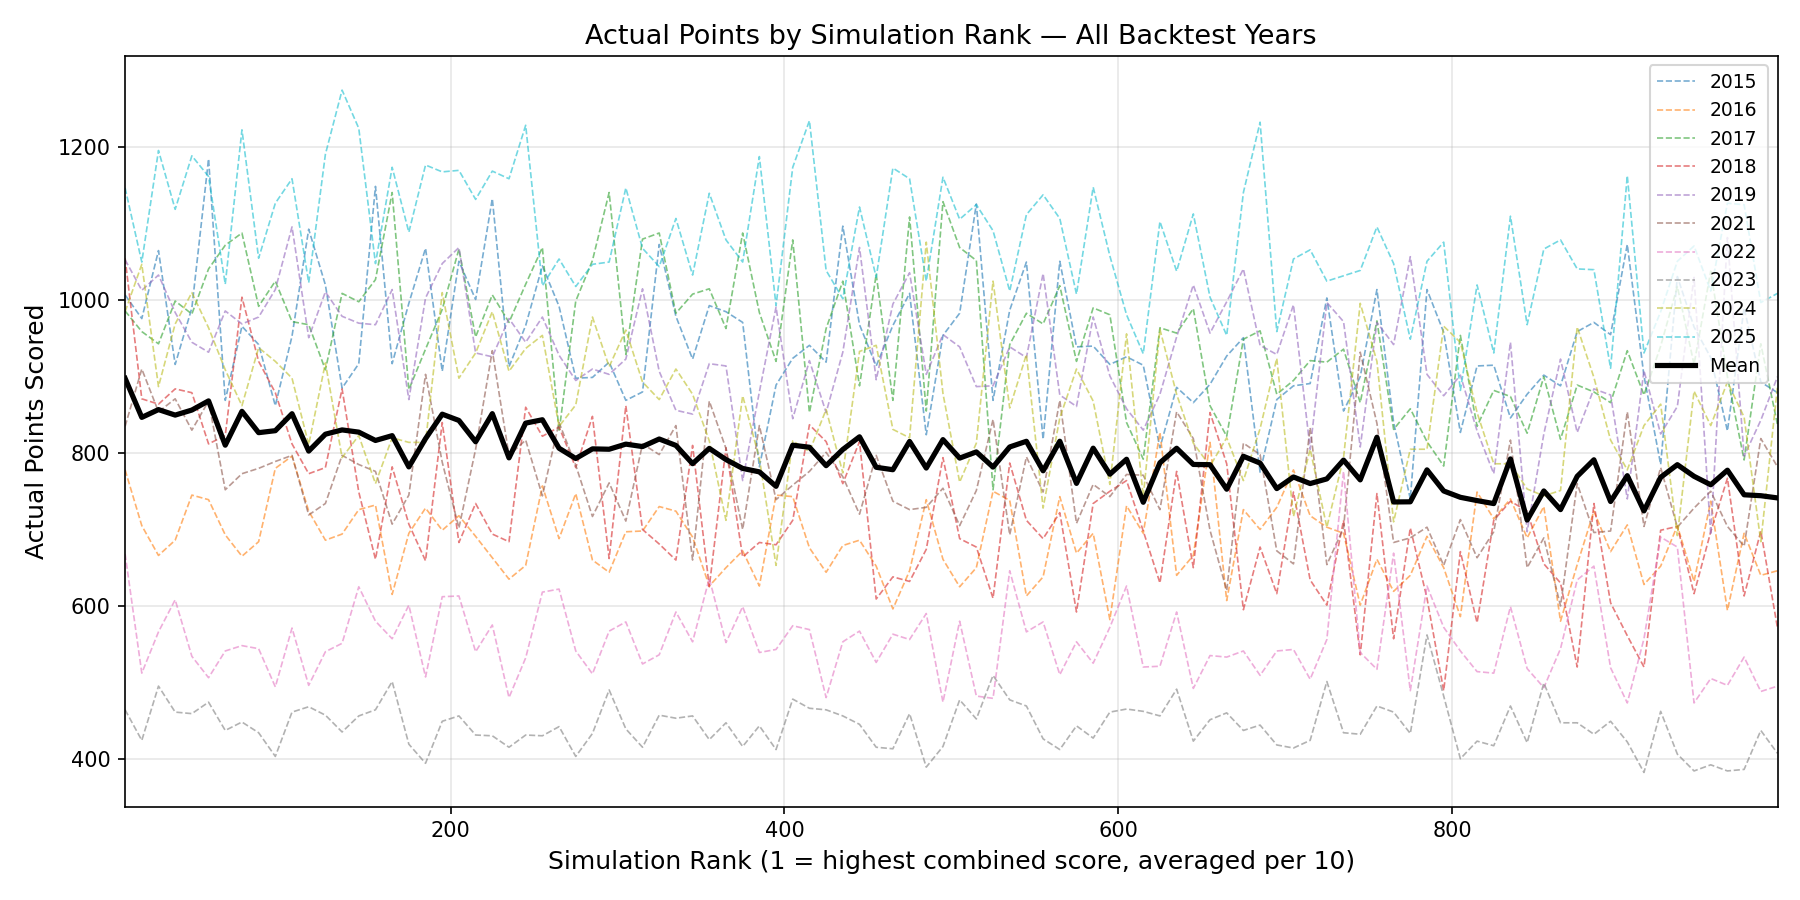
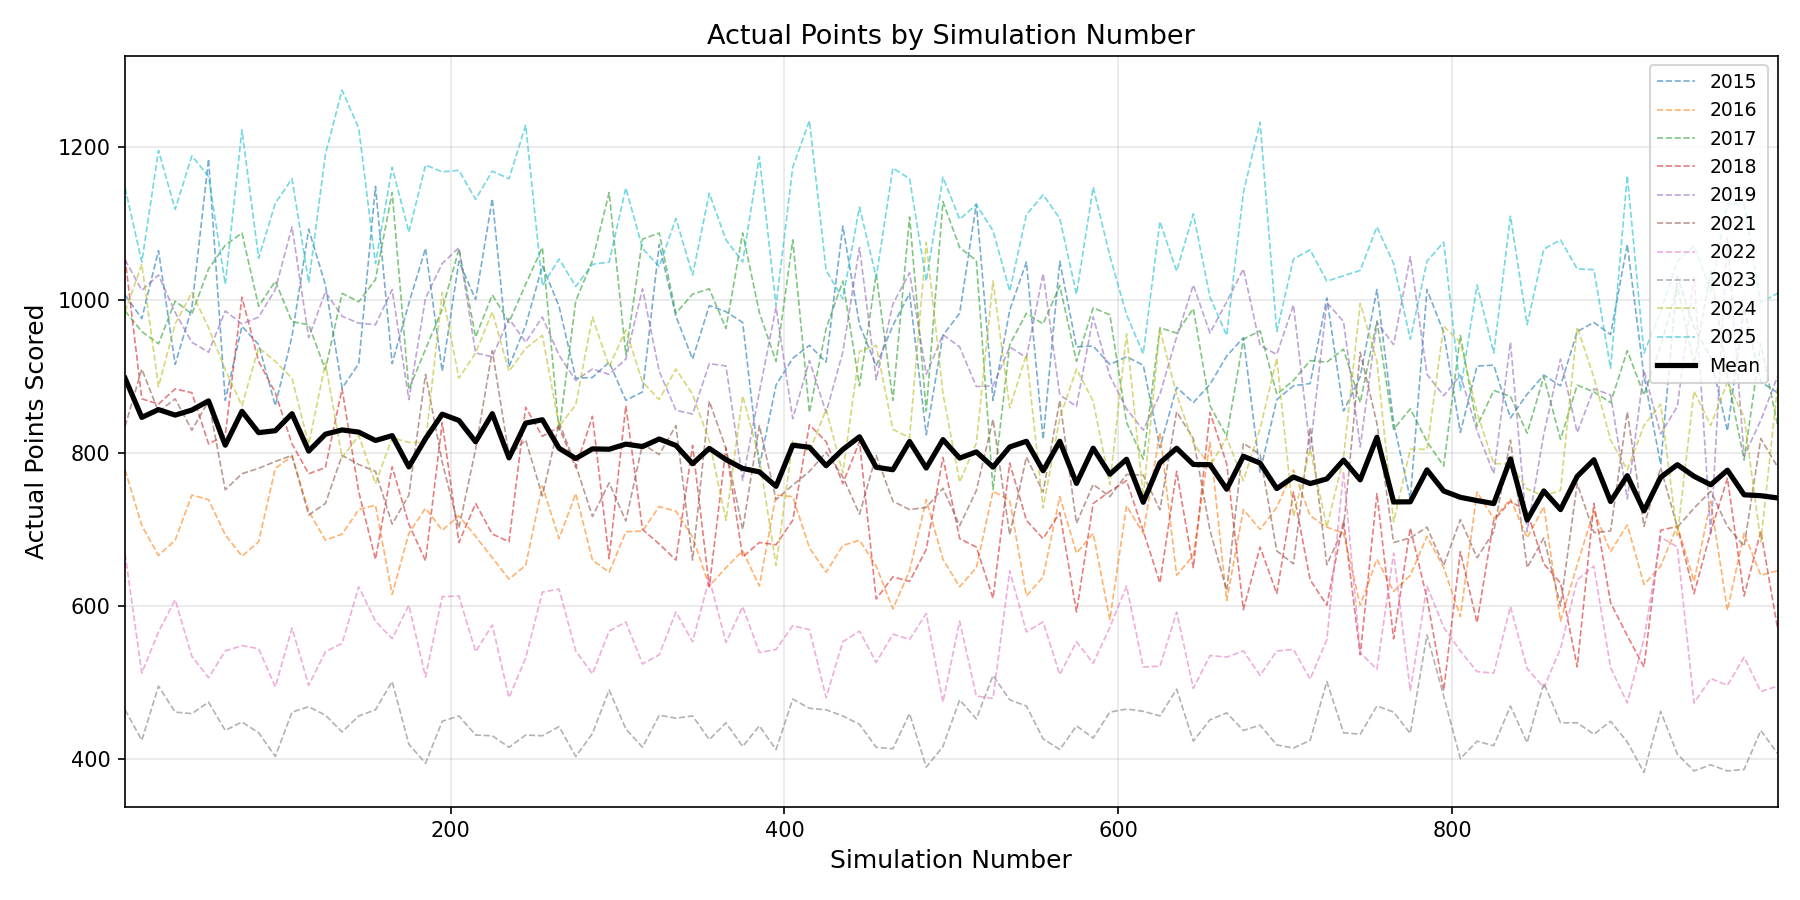
fix labels

Changed region(s): [[0.3111, 0.9333, 0.7467, 0.9644], [0.3111, 0.0311, 0.7467, 0.0622]]

diff --git a/scripts/models/utils/plot_score_distribution.py b/scripts/models/utils/plot_score_distribution.py
@@ -69,9 +69,9 @@ def plot_score_distributions(score_distributions, out_path):
         zorder=5,
     )
 
-    ax.set_xlabel("Simulation Rank (1 = highest combined score, averaged per 10)", fontsize=12)
+    ax.set_xlabel("Simulation Number", fontsize=12)
     ax.set_ylabel("Actual Points Scored", fontsize=12)
-    ax.set_title("Actual Points by Simulation Rank — All Backtest Years", fontsize=13)
+    ax.set_title("Actual Points by Simulation Number", fontsize=13)
     ax.legend(loc="upper right", fontsize=9, framealpha=0.8)
     ax.grid(True, alpha=0.3)
     ax.set_xlim(bin_centers[0], bin_centers[-1])
